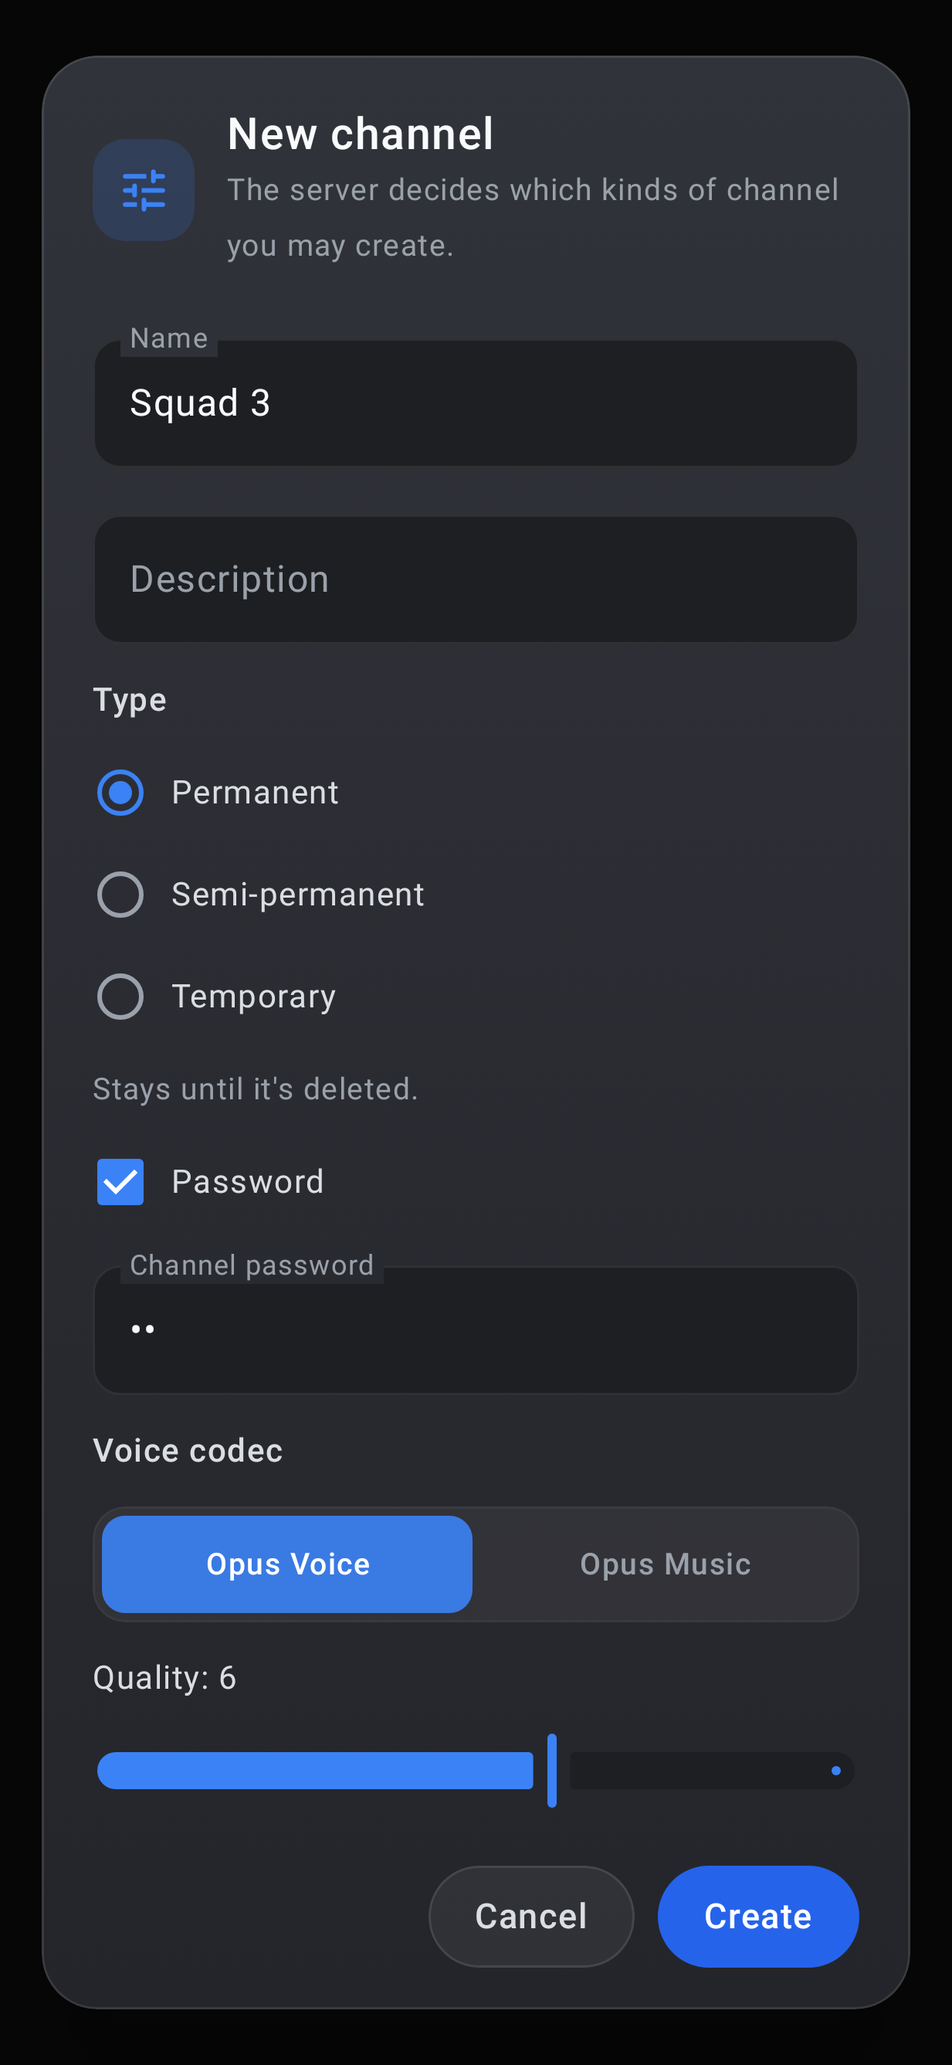
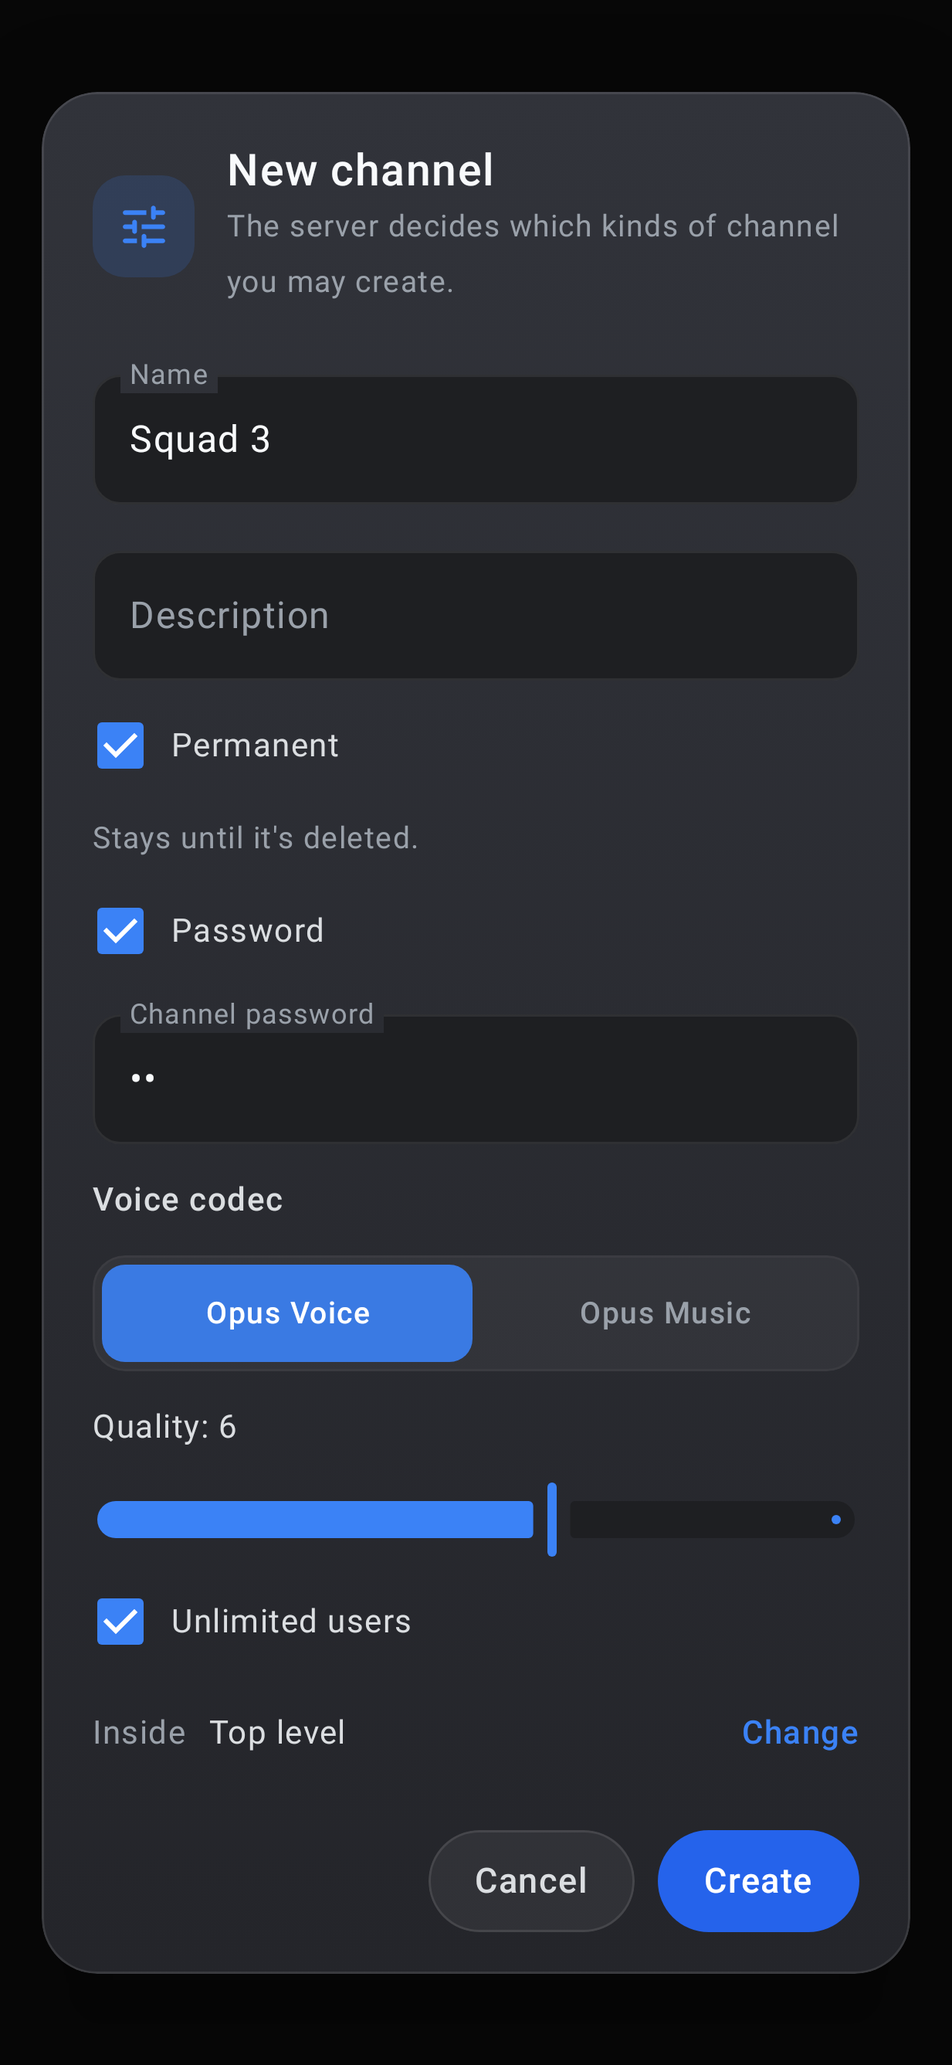
New channel below, from the channel menu
Holding a channel offers New channel below (as TeamSpeak's own "insert
channel below"), for anyone the server lets create channels, read from the
permissions it lists (b_channel_create_*: 91-94, and 105 for choosing the
place). It opens the New channel window without the place row: the subtitle
says where it goes. Below the held channel when the server lets us choose
the place, else last at that level, as the server would put it.

A new channel is permanent or not, one switch as in TeamSpeak 6 (off:
temporary, the default from the menu); the edit window keeps the three
types. Without the place permission no channel_order is sent: the server
refuses one.

diff --git a/app/src/main/kotlin/io/github/korppujauho/pocketts/ui/ChannelEditor.kt b/app/src/main/kotlin/io/github/korppujauho/pocketts/ui/ChannelEditor.kt
@@ -239,6 +239,9 @@ fun ChannelEditList(
 /**
  * A new channel's settings, or a channel's own ([channel]). [description] is the channel's description as it comes
  * from the server (asked for when this opens), shown unless something was already typed.
+ *
+ * A new channel is permanent or not, one switch as in TeamSpeak 6 (not permanent: temporary), shown when [create] lets
+ * us make both kinds. [place]: where a new one goes, said in the subtitle instead of the place row (New channel below).
  */
 @Composable
 fun ChannelDialog(
@@ -249,6 +252,8 @@ fun ChannelDialog(
     onSave: (ChannelEdits.Settings) -> Unit,
     onDelete: (() -> Unit)?,
     onDismiss: () -> Unit,
+    place: String? = null,
+    create: ServerModel.ChannelCreatePowers = ServerModel.ChannelCreatePowers(),
 ) {
     var s by remember { mutableStateOf(start) }
     var typedDescription by remember { mutableStateOf(false) }
@@ -264,7 +269,7 @@ fun ChannelDialog(
         onDismiss = onDismiss,
         title = channel?.displayName?.ifBlank { channel.name } ?: stringResource(R.string.channel_new_title),
         icon = Icons.Rounded.Tune,
-        subtitle = stringResource(if (channel == null) R.string.channel_new_subtitle else R.string.channel_edit_subtitle),
+        subtitle = place ?: stringResource(if (channel == null) R.string.channel_new_subtitle else R.string.channel_edit_subtitle),
         buttons = {
             if (onDelete != null) {
                 PillButton(stringResource(R.string.delete), PillKind.DANGER_TEXT, onClick = onDelete)
@@ -282,13 +287,22 @@ fun ChannelDialog(
             singleLine = false,
         )
 
-        Label(stringResource(R.string.channel_kind))
-        // One under another: three long names don't fit side by side on a phone
-        for ((kind, label) in listOf(
-            ChannelEdits.Kind.PERMANENT to R.string.channel_kind_permanent,
-            ChannelEdits.Kind.SEMI_PERMANENT to R.string.channel_kind_semi,
-            ChannelEdits.Kind.TEMPORARY to R.string.channel_kind_temporary,
-        )) Radio(stringResource(label), s.kind == kind) { s = s.copy(kind = kind) }
+        if (channel == null) {
+            // Permanent or temporary; with only one of them allowed, there's nothing to choose
+            if ((!create.known || create.permanent) && (!create.known || create.temporary)) {
+                Check(stringResource(R.string.channel_kind_permanent), s.kind == ChannelEdits.Kind.PERMANENT) {
+                    s = s.copy(kind = if (it) ChannelEdits.Kind.PERMANENT else ChannelEdits.Kind.TEMPORARY)
+                }
+            }
+        } else {
+            Label(stringResource(R.string.channel_kind))
+            // One under another: three long names don't fit side by side on a phone
+            for ((kind, label) in listOf(
+                ChannelEdits.Kind.PERMANENT to R.string.channel_kind_permanent,
+                ChannelEdits.Kind.SEMI_PERMANENT to R.string.channel_kind_semi,
+                ChannelEdits.Kind.TEMPORARY to R.string.channel_kind_temporary,
+            )) Radio(stringResource(label), s.kind == kind) { s = s.copy(kind = kind) }
+        }
         Text(
             stringResource(
                 when (s.kind) {
@@ -320,7 +334,9 @@ fun ChannelDialog(
             TsField(maxText, { t -> maxText = t.filter { it.isDigit() }.take(5) }, stringResource(R.string.channel_max_users), keyboard = KeyboardType.Number)
         }
 
-        // Where it is in the tree: tap to choose another place (in a window of its own; not inside itself)
+        // Where it is in the tree: tap to choose another place (in a window of its own; not inside itself). Not when
+        // the place was chosen already (New channel below)
+        if (place != null) return@TsDialog
         val parentName = if (s.parent == 0) stringResource(R.string.channel_top_level)
         else flattenTree(tree).firstOrNull { it.node.channel.id == s.parent }?.node?.channel?.let { it.displayName.ifBlank { it.name } } ?: "?"
         Row(

diff --git a/app/src/main/kotlin/io/github/korppujauho/pocketts/ui/ServerScreen.kt b/app/src/main/kotlin/io/github/korppujauho/pocketts/ui/ServerScreen.kt
@@ -595,6 +595,7 @@ fun ServerScreen(
         val item = items.firstOrNull { it.node.channel.id == id } ?: return@let
         val ch = item.node.channel
         val admin = state.voice.adminTools && state.phase == Session.Phase.CONNECTED
+        val res = androidx.compose.ui.platform.LocalResources.current
         ChannelInfoDialog(
             ch, people = item.node.clients.size, here = ch.id == state.ownChannel,
             // Joining as a tap does it (a spacer too, from here: holding it was on purpose)
@@ -607,6 +608,11 @@ fun ServerScreen(
             onArrange = if (admin) ({ infoChannel = null; held = ch; editing = true }) else null,
             onDismiss = { infoChannel = null },
             onFiles = { infoChannel = null; filesChannel = ch.id },
+            // As TeamSpeak's own "insert channel below", for anyone the server lets create channels
+            onNewBelow = if (state.phase == Session.Phase.CONNECTED && state.channelCreate.any) ({
+                infoChannel = null
+                channelDialog = newBelow(ch, state.channelCreate, items, res)
+            }) else null,
             whispered = ch.id in state.whisperTo.channels,
             onWhisper = if (state.phase == Session.Phase.CONNECTED) ({ actions.toggleWhisperChannel(ch) }) else null,
         )
@@ -626,6 +632,7 @@ fun ServerScreen(
                 },
                 onDelete = ch?.let { c -> { channelDialog = null; deleteTarget = c } },
                 onDismiss = { channelDialog = null },
+                place = d.place, create = state.channelCreate,
             )
         }
     }
@@ -686,4 +693,29 @@ fun ErrorLine(text: String) {
 }
 
 /** The channel settings window: a channel's own ([id]), or a new one (null), starting as [start]. */
-private data class ChannelEditing(val id: Int?, val start: io.github.korppujauho.pocketts.proto.ChannelEdits.Settings)
+/**
+ * A new channel below [ch]: next to it, at the same level, when the server lets us choose a channel's place; else last
+ * at that level (or last at the top, when we may not create inside another channel). Temporary when that's allowed.
+ */
+private fun newBelow(
+    ch: io.github.korppujauho.pocketts.proto.ServerModel.Channel, can: io.github.korppujauho.pocketts.proto.ServerModel.ChannelCreatePowers,
+    items: List<ChannelItem>, res: android.content.res.Resources,
+): ChannelEditing {
+    val parent = if (ch.parent == 0 || !can.known || can.child) ch.parent else 0
+    val below = parent == ch.parent && (!can.known || can.sortOrder)
+    fun name(c: io.github.korppujauho.pocketts.proto.ServerModel.Channel) = c.displayName.ifBlank { c.name }
+    val place = when {
+        below -> res.getString(R.string.channel_place_below, name(ch))
+        parent == 0 -> res.getString(R.string.channel_place_end_top)
+        else -> items.firstOrNull { it.node.channel.id == parent }?.node?.channel?.let { res.getString(R.string.channel_place_end, name(it)) }
+            ?: res.getString(R.string.channel_place_end_top)
+    }
+    val kind = when {
+        !can.known || can.temporary -> io.github.korppujauho.pocketts.proto.ChannelEdits.Kind.TEMPORARY
+        can.permanent -> io.github.korppujauho.pocketts.proto.ChannelEdits.Kind.PERMANENT
+        else -> io.github.korppujauho.pocketts.proto.ChannelEdits.Kind.SEMI_PERMANENT
+    }
+    return ChannelEditing(null, io.github.korppujauho.pocketts.proto.ChannelEdits.Settings("", kind = kind, parent = parent, after = if (below) ch.id else -1), place)
+}
+
+private data class ChannelEditing(val id: Int?, val start: io.github.korppujauho.pocketts.proto.ChannelEdits.Settings, val place: String? = null)

diff --git a/tsproto/src/main/kotlin/io/github/korppujauho/pocketts/proto/ServerModel.kt b/tsproto/src/main/kotlin/io/github/korppujauho/pocketts/proto/ServerModel.kt
@@ -8,6 +8,13 @@ class ServerModel {
         const val GROUP_MEMBER_ADD_POWER = 170
         const val GROUP_MEMBER_REMOVE_POWER = 172
 
+        // Creating channels, numbered the same way (a TeamSpeak 6 server lists only the ones we have)
+        const val CHANNEL_CREATE_CHILD = 91
+        const val CHANNEL_CREATE_PERMANENT = 92
+        const val CHANNEL_CREATE_SEMI_PERMANENT = 93
+        const val CHANNEL_CREATE_TEMPORARY = 94
+        const val CHANNEL_CREATE_WITH_SORT_ORDER = 105
+
         val BANNER = Regex("""^(https|ts3image)://\S{1,500}$""", RegexOption.IGNORE_CASE)
         val MYTS_AVATAR = Regex("""^(?:\d+,)?(https://storage\.googleapis\.com/ts-sys-myts-avatars/[A-Za-z0-9-]{1,64}/[0-9]{1,20})$""")
         val SPACER = Regex("""^\[([^\]]*)spacer[^\]]*](.*)$""")
@@ -110,6 +117,22 @@ class ServerModel {
 
         /** Someone's channel group changed from [from] to [to]: the one is taken, the other given. */
         fun canSwitch(from: Group?, to: Group) = canAdd(to) && (from == null || canRemove(from))
+    }
+
+    /**
+     * What kinds of channel we may create, and how ([known] false: the server hasn't said yet, so creating is offered
+     * and the server's answer decides). [child]: inside another channel; [sortOrder]: at a chosen place among its
+     * neighbours, else it goes last.
+     */
+    data class ChannelCreatePowers(
+        val known: Boolean = false,
+        val permanent: Boolean = false,
+        val semiPermanent: Boolean = false,
+        val temporary: Boolean = false,
+        val child: Boolean = false,
+        val sortOrder: Boolean = false,
+    ) {
+        val any: Boolean get() = !known || permanent || semiPermanent || temporary
     }
 
     /** A channel with its sub-channels and the people in it, in the server's order. */
@@ -293,6 +316,15 @@ class ServerModel {
     fun channelGroupChoices(): List<Group> = forPeople(channelGroups)
 
     val groupPowers: GroupPowers get() = GroupPowers(ownPermissions[GROUP_MEMBER_ADD_POWER] ?: 0, ownPermissions[GROUP_MEMBER_REMOVE_POWER] ?: 0)
+
+    val channelCreatePowers: ChannelCreatePowers get() {
+        fun has(id: Int) = (ownPermissions[id] ?: 0) > 0
+        return ChannelCreatePowers(
+            known = ownPermissions.isNotEmpty(),
+            permanent = has(CHANNEL_CREATE_PERMANENT), semiPermanent = has(CHANNEL_CREATE_SEMI_PERMANENT),
+            temporary = has(CHANNEL_CREATE_TEMPORARY), child = has(CHANNEL_CREATE_CHILD), sortOrder = has(CHANNEL_CREATE_WITH_SORT_ORDER),
+        )
+    }
 
     private fun forPeople(groups: Map<Int, Group>) =
         groups.values.filter { it.type == 1 }.sortedWith(compareBy<Group> { it.sortId }.thenBy { it.id })

diff --git a/app/src/test/kotlin/io/github/korppujauho/pocketts/ChannelBelowTest.kt b/app/src/test/kotlin/io/github/korppujauho/pocketts/ChannelBelowTest.kt
@@ -1,0 +1,56 @@
+package io.github.korppujauho.pocketts
+
+import androidx.compose.ui.test.junit4.createComposeRule
+import androidx.compose.ui.test.onNodeWithText
+import androidx.compose.ui.test.performClick
+import androidx.compose.ui.test.performTextInput
+import androidx.compose.ui.test.onAllNodesWithText
+import io.github.korppujauho.pocketts.proto.ChannelEdits
+import io.github.korppujauho.pocketts.proto.ServerModel
+import io.github.korppujauho.pocketts.ui.ChannelDialog
+import io.github.korppujauho.pocketts.ui.PocketTsTheme
+import org.junit.Assert.assertEquals
+import org.junit.Rule
+import org.junit.Test
+import org.junit.runner.RunWith
+import org.robolectric.RobolectricTestRunner
+import org.robolectric.annotation.Config
+
+/** A new channel from the channel menu: its place said, not chosen; permanent or not as one switch (temporary when off). */
+@RunWith(RobolectricTestRunner::class)
+@Config(sdk = [36])
+class ChannelBelowTest {
+    @get:Rule
+    val compose = createComposeRule()
+
+    private var saved: ChannelEdits.Settings? = null
+
+    private fun open(create: ServerModel.ChannelCreatePowers) = compose.setContent {
+        PocketTsTheme {
+            ChannelDialog(
+                null, ChannelEdits.Settings("", kind = ChannelEdits.Kind.TEMPORARY, parent = 0, after = 2), Example.state().tree, "",
+                onSave = { saved = it }, onDelete = null, onDismiss = {}, place = "Below Gaming", create = create,
+            )
+        }
+    }
+
+    @Test
+    fun belowAndTemporaryUnlessSwitchedToPermanent() {
+        open(ServerModel.ChannelCreatePowers(known = true, permanent = true, temporary = true, sortOrder = true))
+        compose.onNodeWithText("Below Gaming").assertExists()
+        compose.onNodeWithText("Inside").assertDoesNotExist()
+        compose.onAllNodesWithText("Name")[0].performTextInput("Raid night")
+        // Temporary until switched (the switch's box is its own node; the row takes the tap)
+        compose.onNodeWithText("Permanent").performClick()
+        compose.onNodeWithText("Create").performClick()
+        assertEquals(ChannelEdits.Kind.PERMANENT, saved?.kind)
+        assertEquals(2, saved?.after)
+        assertEquals("Raid night", saved?.name)
+    }
+
+    @Test
+    fun onlyTemporaryAllowedHasNothingToSwitch() {
+        open(ServerModel.ChannelCreatePowers(known = true, temporary = true))
+        compose.onNodeWithText("Permanent").assertDoesNotExist()
+    }
+}

diff --git a/tsproto/src/test/kotlin/io/github/korppujauho/pocketts/proto/ServerGroupsTest.kt b/tsproto/src/test/kotlin/io/github/korppujauho/pocketts/proto/ServerGroupsTest.kt
@@ -2,6 +2,8 @@ package io.github.korppujauho.pocketts.proto
 
 import kotlin.test.Test
 import kotlin.test.assertEquals
+import kotlin.test.assertFalse
+import kotlin.test.assertTrue
 
 /**
  * Server groups as a TeamSpeak 6 server tells them (these lines are from one, shortened): only groups for people are
@@ -108,5 +110,22 @@ class ServerGroupsTest {
         m.apply(Commands.parse("notifyservergroupclientdeleted invokerid=2 sgid=7 clid=3 name=Lee"))
         m.apply(Commands.parse("notifyclientupdated clid=3 client_servergroups=8"))
         assertEquals(listOf(8), m.clients.getValue(3).serverGroups)
+    }
+
+    /** Which channels we may create, from the permissions a TeamSpeak 6 server lists (only those we have). */
+    @Test
+    fun whatChannelsWeMayCreate() {
+        val m = ServerModel()
+        assertEquals(ServerModel.ChannelCreatePowers(), m.channelCreatePowers)
+        assertTrue(m.channelCreatePowers.any) // not said yet: offered, the server decides
+        // A guest on the test server: temporary channels only, last in their place
+        m.apply(Commands.parse("notifyclientneededpermissions permid=94 permvalue=1|permid=95 permvalue=1|permid=97 permvalue=1"))
+        assertEquals(ServerModel.ChannelCreatePowers(known = true, temporary = true), m.channelCreatePowers)
+        // Nothing to create
+        m.apply(Commands.parse("notifyclientneededpermissions permid=248 permvalue=25"))
+        assertFalse(m.channelCreatePowers.any)
+        // An admin: everything
+        m.apply(Commands.parse("notifyclientneededpermissions permid=91 permvalue=1|permid=92 permvalue=1|permid=93 permvalue=1|permid=94 permvalue=1|permid=105 permvalue=1"))
+        assertEquals(ServerModel.ChannelCreatePowers(true, true, true, true, true, true), m.channelCreatePowers)
     }
 }

diff --git a/app/src/test/kotlin/io/github/korppujauho/pocketts/ScreenshotTest.kt b/app/src/test/kotlin/io/github/korppujauho/pocketts/ScreenshotTest.kt
@@ -103,6 +103,15 @@ class ScreenshotTest {
         )
     }
 
+    /** From the channel menu's New channel below, as a guest: temporary, its place said instead of chosen. */
+    @Test
+    fun channelNewBelow() = popup("popup-channel-new-below") {
+        io.github.korppujauho.pocketts.ui.ChannelDialog(
+            null, io.github.korppujauho.pocketts.proto.ChannelEdits.Settings("Raid night", kind = io.github.korppujauho.pocketts.proto.ChannelEdits.Kind.TEMPORARY, parent = 0, after = 2),
+            Example.state().tree, "", onSave = {}, onDelete = null, onDismiss = {}, place = "Below Gaming",
+        )
+    }
+
     @Test
     fun channelEdit() = popup("popup-channel-edit") {
         val s = Example.state()
@@ -212,7 +221,7 @@ class ScreenshotTest {
             topic = "Tonight: co-op", maxClients = 10, hasPassword = true, codecQuality = 8,
             description = "[b]Games every evening.[/b]\nAsk Lee for the password. Rules: https://example.com/rules",
         )
-        io.github.korppujauho.pocketts.ui.ChannelInfoDialog(ch, people = 3, here = false, onJoin = {}, onEdit = {}, onArrange = {}, onDismiss = {}, onFiles = {})
+        io.github.korppujauho.pocketts.ui.ChannelInfoDialog(ch, people = 3, here = false, onJoin = {}, onEdit = {}, onArrange = {}, onDismiss = {}, onFiles = {}, onNewBelow = {})
     }
 
     @Test

diff --git a/app/src/main/kotlin/io/github/korppujauho/pocketts/Session.kt b/app/src/main/kotlin/io/github/korppujauho/pocketts/Session.kt
@@ -68,6 +68,7 @@ object Session : TsClient.Listener {
         val groupChoices: List<ServerModel.GroupChoice> = emptyList(), // the server groups people can be put in, and which we may change
         val channelGroupChoices: List<ServerModel.Group> = emptyList(), // the channel groups people can be given
         val groupPowers: ServerModel.GroupPowers = ServerModel.GroupPowers(), // ours, where we are
+        val channelCreate: ServerModel.ChannelCreatePowers = ServerModel.ChannelCreatePowers(), // which channels we may create, and where
         val serverIcon: Long = 0,
         val sendingPicture: Boolean = false,
         val sendingProgress: Pair<Int, Int>? = null, // sending several pictures: which one (from 1), of how many
@@ -1614,6 +1615,7 @@ object Session : TsClient.Listener {
                 groupChoices = model.serverGroupChoices(),
                 channelGroupChoices = model.channelGroupChoices(),
                 groupPowers = model.groupPowers,
+                channelCreate = model.channelCreatePowers,
                 streams = HashMap(model.streams),
                 serverIcon = model.serverVars["virtualserver_icon_id"]?.toLongOrNull()?.let { v -> if (v < 0) v + (1L shl 32) else v } ?: 0,
                 channelCount = model.channels.size,

diff --git a/tsproto/src/main/kotlin/io/github/korppujauho/pocketts/proto/ChannelEdits.kt b/tsproto/src/main/kotlin/io/github/korppujauho/pocketts/proto/ChannelEdits.kt
@@ -19,7 +19,7 @@ object ChannelEdits {
         val quality: Int = 6, // 0 - 10
         val maxClients: Int = -1, // -1 = unlimited
         val parent: Int = 0,
-        val after: Int = 0, // the channel it comes after (0 = first): a new one's place, or a moved one's in its new parent
+        val after: Int = 0, // the channel it comes after (0 = first): a new one's place, or a moved one's in its new parent; -1: a new one goes last (no place asked for)
     )
 
     /** A command to send: its name and parameters. */
@@ -42,7 +42,8 @@ object ChannelEdits {
         listOf(
             "channel_name" to s.name.trim(),
             "cpid" to s.parent.takeIf { it != 0 },
-            "channel_order" to s.after,
+            // Asking for a place needs its own permission: without it the server puts the channel last
+            "channel_order" to s.after.takeIf { it >= 0 },
             "channel_description" to s.description.trim().ifEmpty { null },
             "channel_codec" to s.codec,
             "channel_codec_quality" to s.quality,

diff --git a/app/src/main/kotlin/io/github/korppujauho/pocketts/ui/Dialogs.kt b/app/src/main/kotlin/io/github/korppujauho/pocketts/ui/Dialogs.kt
@@ -311,6 +311,7 @@ fun ChannelInfoDialog(
     onFiles: (() -> Unit)? = null,
     whispered: Boolean = false,
     onWhisper: (() -> Unit)? = null,
+    onNewBelow: (() -> Unit)? = null,
 ) {
     // The description comes a moment after asking; empty after that, there's none
     var waited by remember { mutableStateOf(false) }
@@ -385,6 +386,7 @@ fun ChannelInfoDialog(
                     stringResource(if (whispered) R.string.whisper_channel_off else R.string.whisper_channel), modifier = Modifier.fillMaxWidth(), onClick = onWhisper,
                 )
             }
+            if (onNewBelow != null) PillButton(stringResource(R.string.channel_new_below), modifier = Modifier.fillMaxWidth(), onClick = onNewBelow)
             if (onEdit != null || onArrange != null) {
                 Row(horizontalArrangement = Arrangement.spacedBy(8.dp)) {
                     if (onEdit != null) PillButton(stringResource(R.string.edit), modifier = Modifier.weight(1f), onClick = onEdit)

diff --git a/tsproto/src/test/kotlin/io/github/korppujauho/pocketts/proto/ChannelEditsTest.kt b/tsproto/src/test/kotlin/io/github/korppujauho/pocketts/proto/ChannelEditsTest.kt
@@ -96,6 +96,11 @@ class ChannelEditsTest {
             "channelcreate channel_name=T channel_order=0 channel_codec=4 channel_codec_quality=6 channel_flag_maxclients_unlimited=1",
             ChannelEdits.create(ChannelEdits.Settings("T", kind = ChannelEdits.Kind.TEMPORARY)).line(),
         )
+        // No place asked for (without the permission for it): no channel_order, the server puts it last
+        assertEquals(
+            "channelcreate channel_name=T channel_codec=4 channel_codec_quality=6 channel_flag_maxclients_unlimited=1",
+            ChannelEdits.create(ChannelEdits.Settings("T", kind = ChannelEdits.Kind.TEMPORARY, after = -1)).line(),
+        )
     }
 
     @Test
